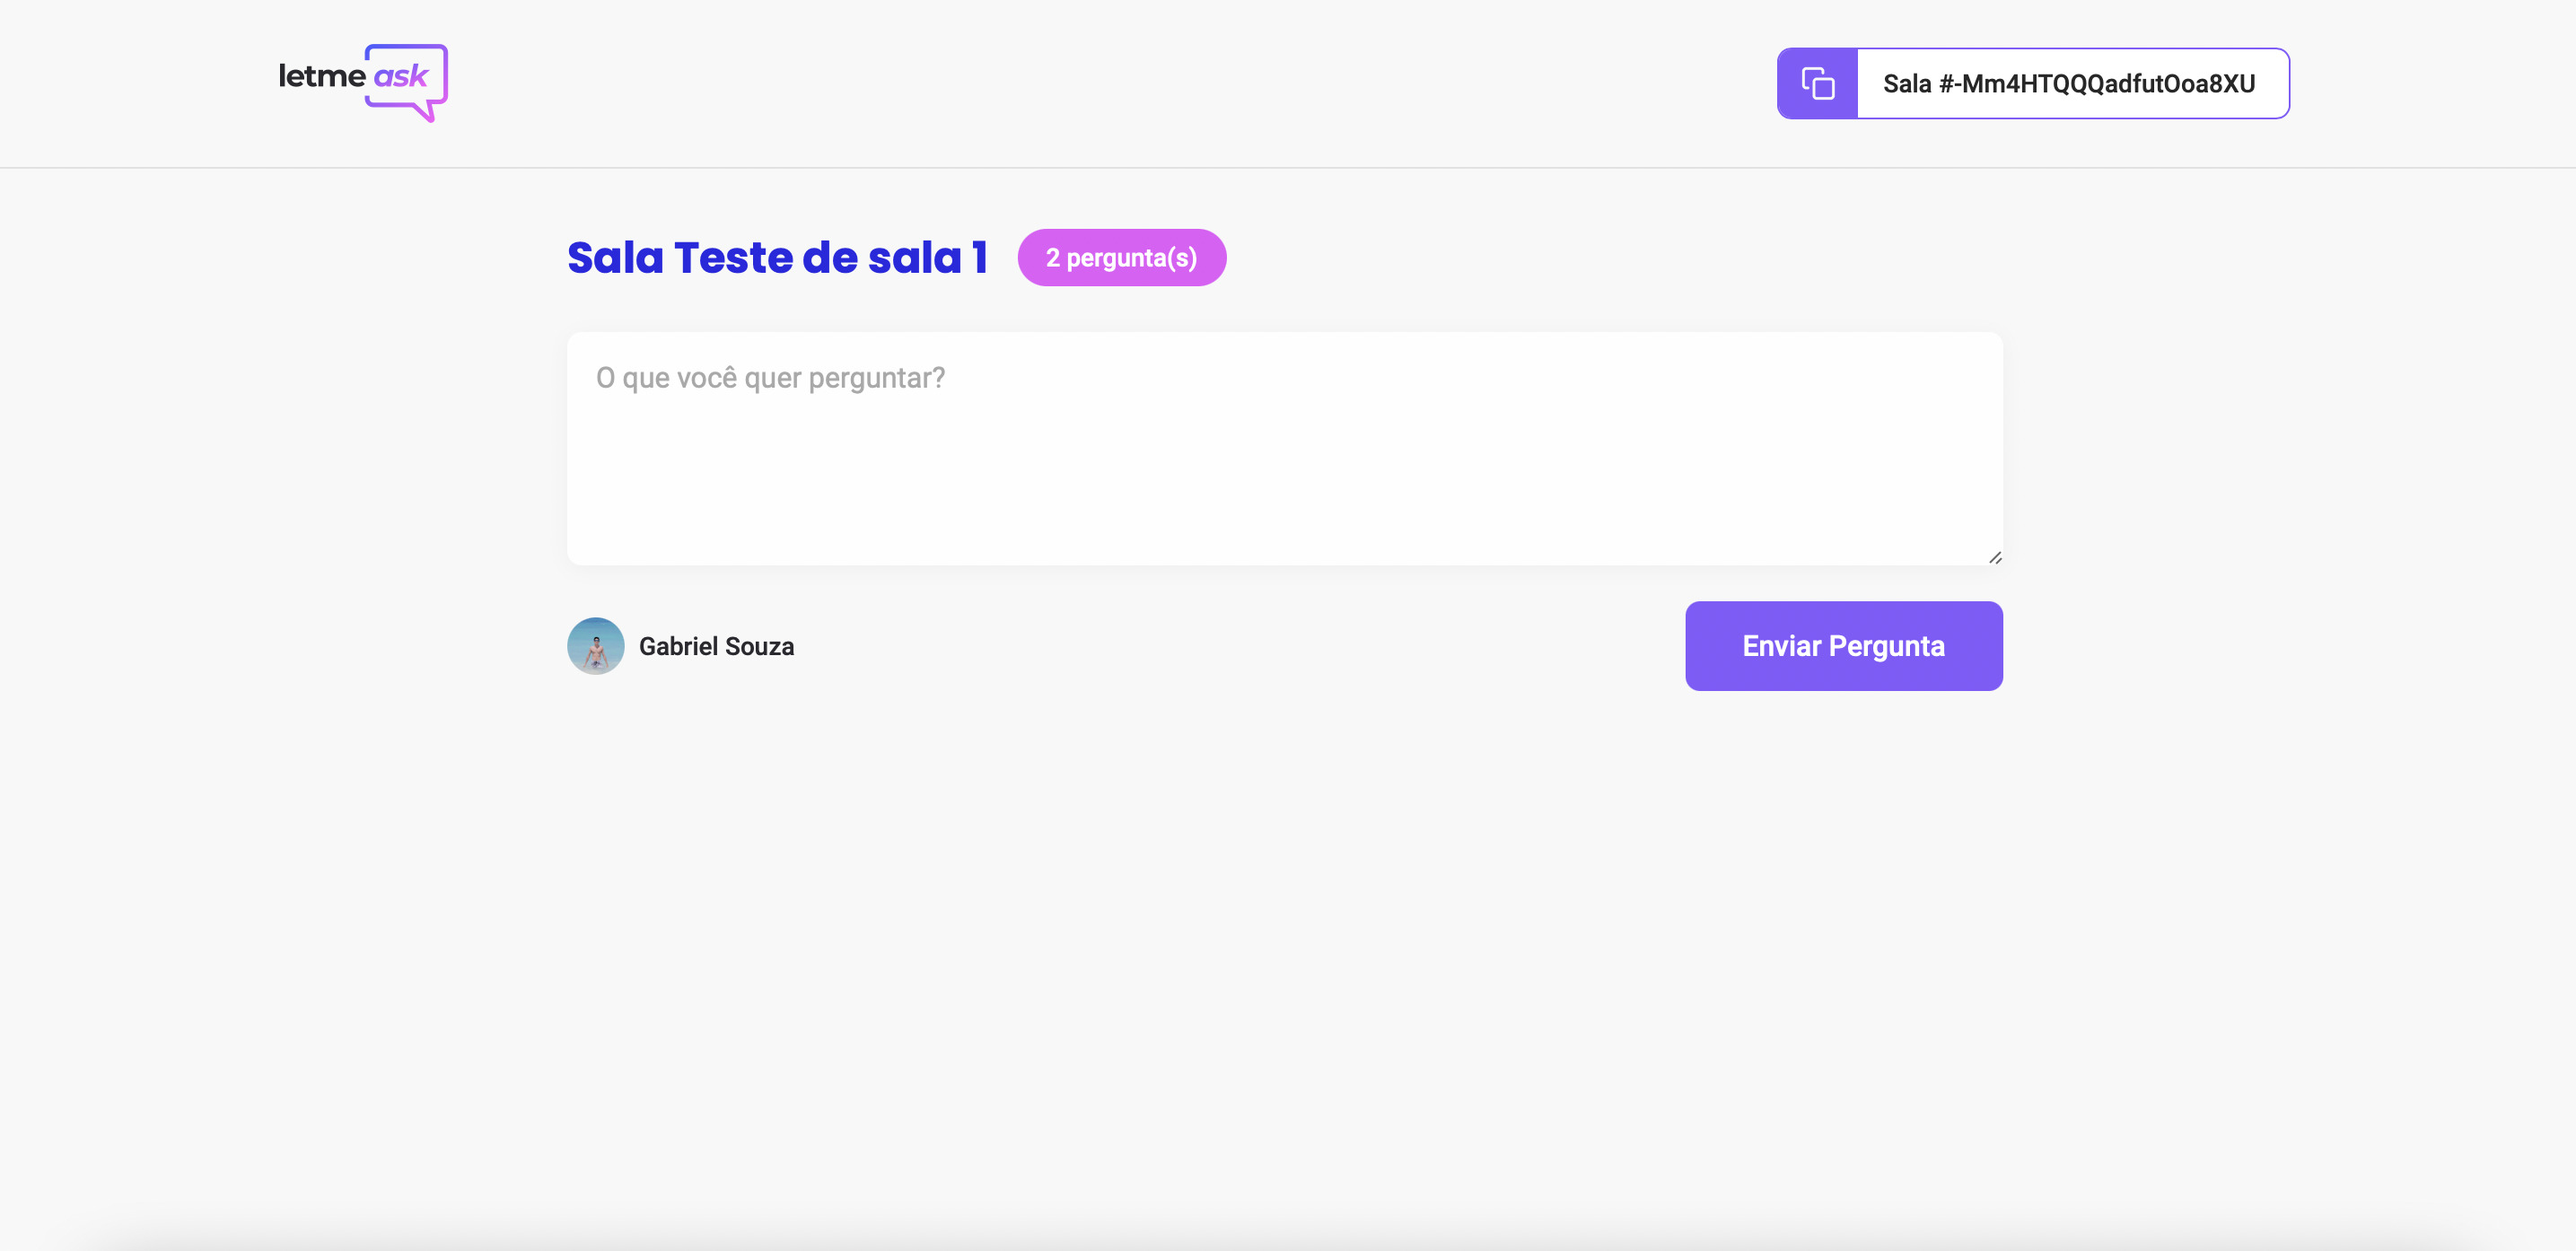
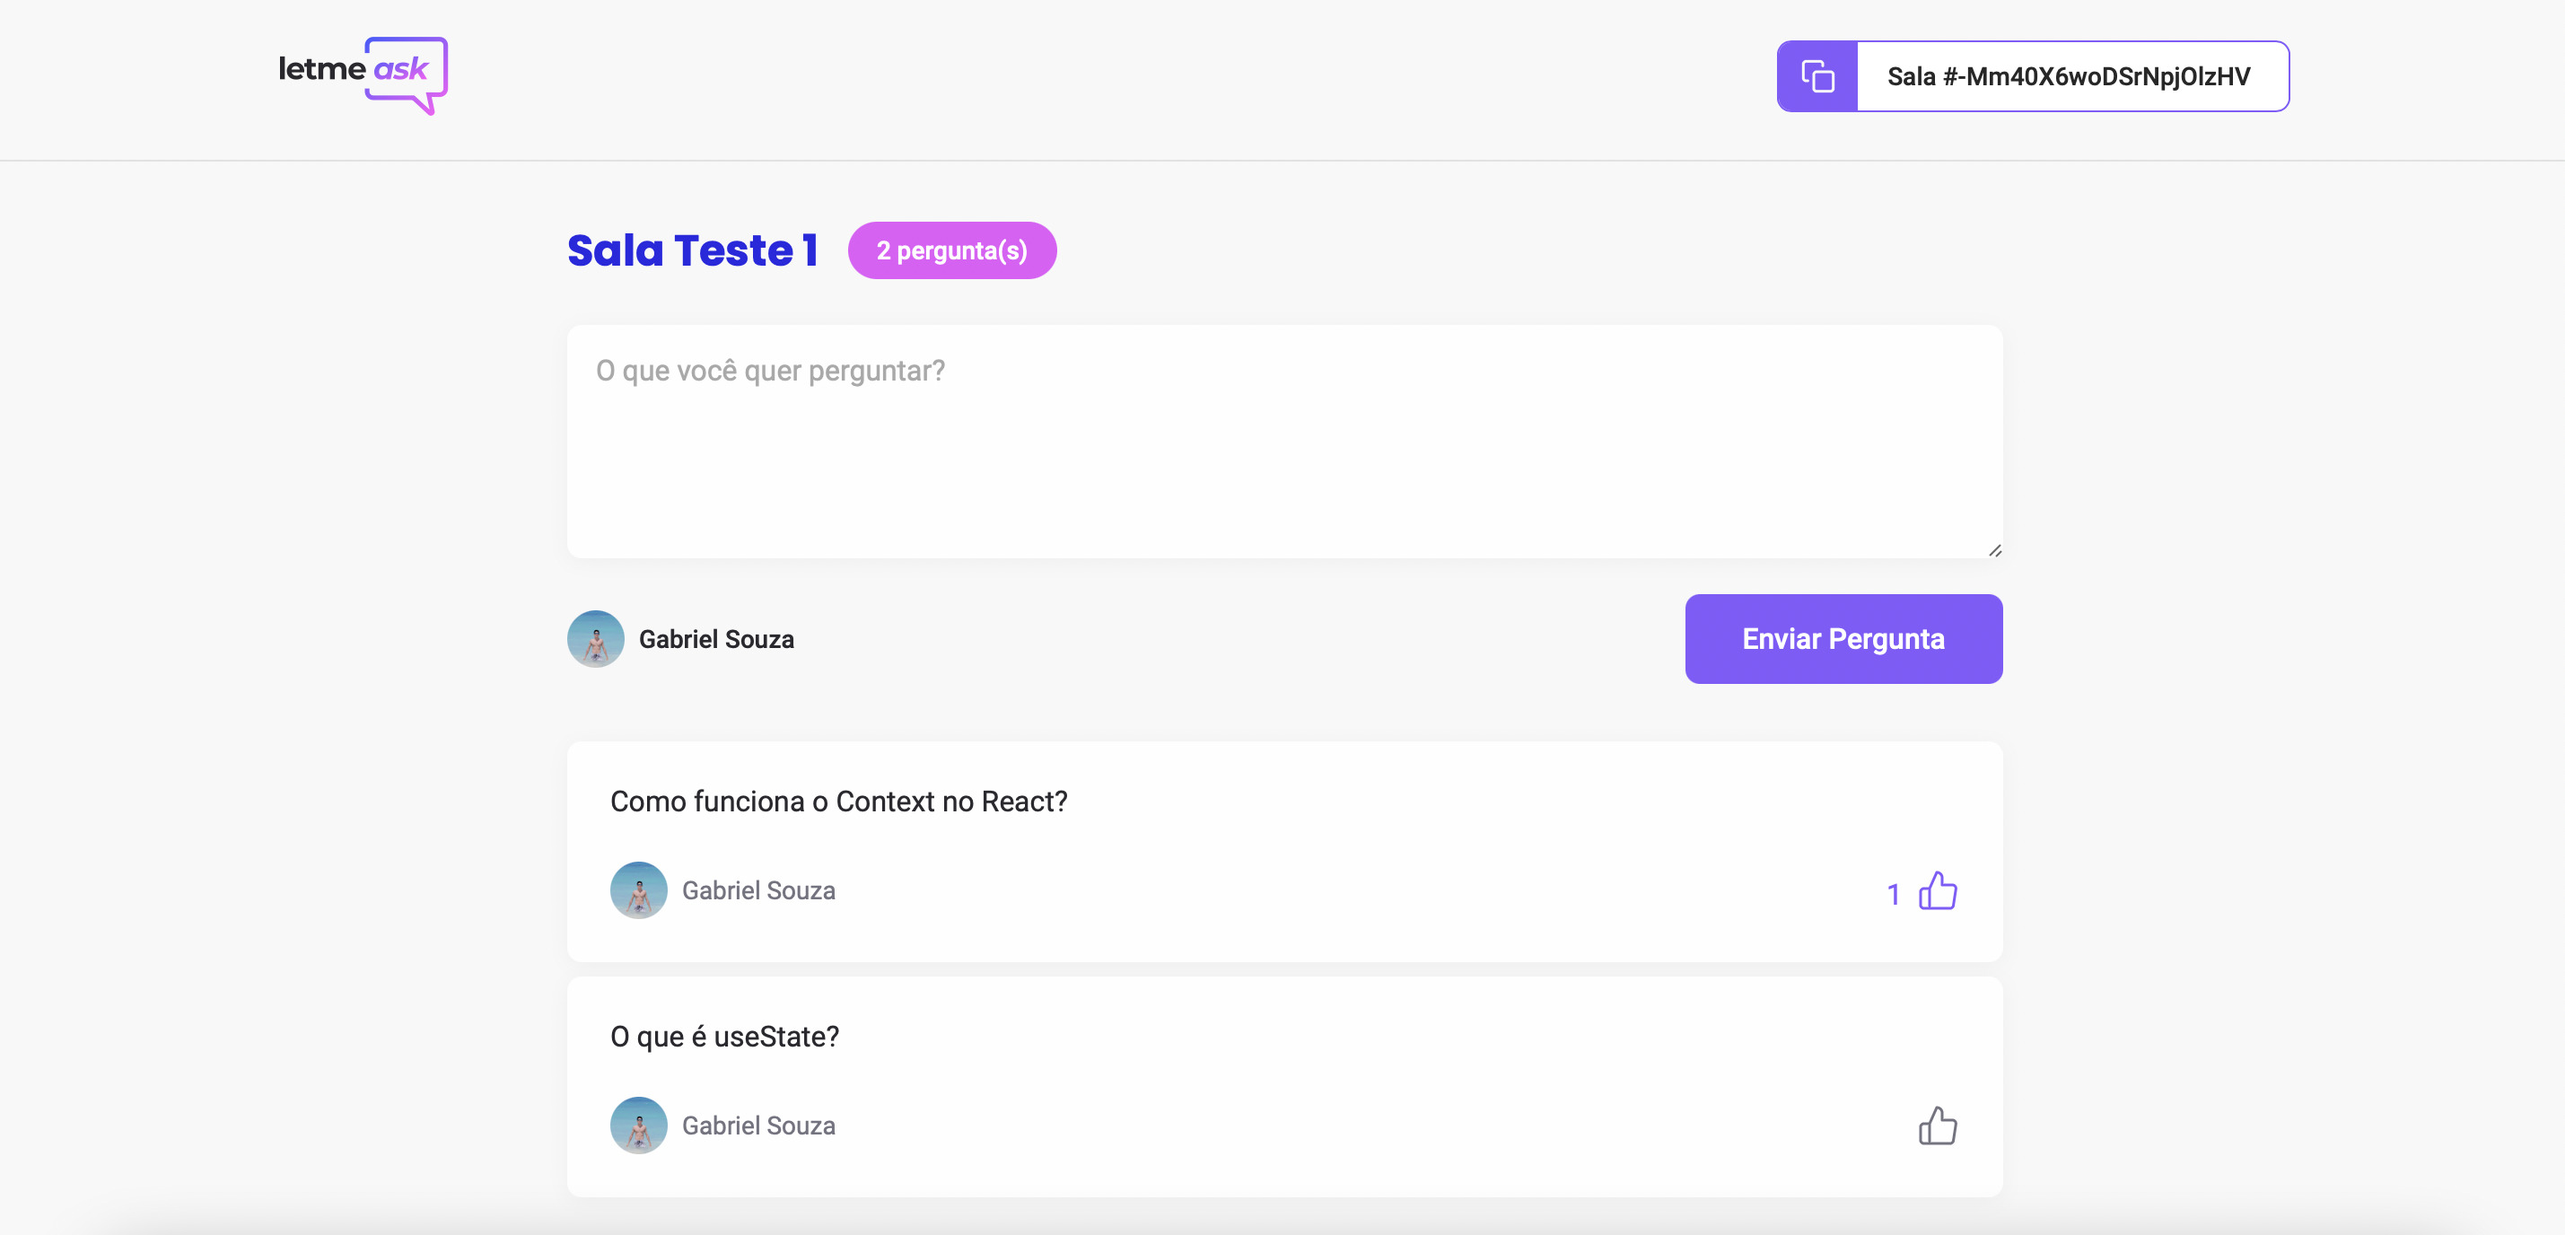
dia 4 completo

diff --git a/src/Pages/AdminRoom.tsx b/src/Pages/AdminRoom.tsx
@@ -1,49 +1,38 @@
-import { FormEvent, useState } from "react";
-import { useParams } from "react-router-dom";
+import { useState } from "react";
+import { useHistory, useParams } from "react-router-dom";
 import logoImg from "../Assets/images/logo.svg";
+import deleImg from "../Assets/images/delete.svg";
 import Button from "../Components/Button";
 import Question from "../Components/Question";
 import RoomCode from "../Components/RoomCode";
 import { useAuth } from "../Hooks/useAuth";
 import { useRoom } from "../Hooks/useRoom";
-import { database } from "../Services/firebase";
 import "../Styles/room.scss";
+import { database } from "../Services/firebase";
 
 type RoomParams = {
   id: string;
 };
 
 const AdminRoom = () => {
-  const { user } = useAuth();
+  // const { user } = useAuth();
+  const history = useHistory();
   const params = useParams<RoomParams>();
   const code = params.id;
-  const [newQuestion, setNewQuestion] = useState("");
   const { questions, title } = useRoom(code);
 
-  async function handleSendQuestion(event: FormEvent) {
-    event.preventDefault();
+  async function handleEndRoom() {
+    await database.ref(`rooms/${code}`).update({
+      closedAt: new Date(),
+    });
 
-    if (newQuestion.trim() === "") {
-      return;
+    history.push("/");
+  }
+
+  async function handleDeleteQuestion(questionId: string) {
+    if (window.confirm("Tem certeza que deseja excluir essa pergunta?")) {
+      await database.ref(`rooms/${code}/questions/${questionId}`).remove();
     }
-
-    if (!user) {
-      throw new Error("You must be logged in.");
-    }
-
-    const question = {
-      content: newQuestion,
-      author: {
-        name: user.name,
-        avatar: user.avatar,
-      },
-      isHighlighted: false,
-      isAnswered: false,
-    };
-
-    await database.ref(`rooms/${code}/questions`).push(question);
-
-    setNewQuestion("");
   }
 
   return (
@@ -53,7 +42,9 @@ const AdminRoom = () => {
           <img src={logoImg} alt="Letmeask" />
           <div>
             <RoomCode code={code} />
-            <Button isOutlined>Encerrar Sala</Button>
+            <Button isOutlined onClick={handleEndRoom}>
+              Encerrar Sala
+            </Button>
           </div>
         </div>
       </header>
@@ -69,7 +60,14 @@ const AdminRoom = () => {
                 key={question.id}
                 content={question.content}
                 author={question.author}
-              />
+              >
+                <button
+                  type="button"
+                  onClick={() => handleDeleteQuestion(question.id)}
+                >
+                  <img src={deleImg} alt="Remover pergunta" />
+                </button>
+              </Question>
             );
           })}
         </div>

diff --git a/src/Pages/Room.tsx b/src/Pages/Room.tsx
@@ -46,6 +46,16 @@ const Room = () => {
     setNewQuestion("");
   }
 
+  async function handleLikeQuestion(questionId: string, hasLiked: boolean) {
+    if (!hasLiked) {
+      await database.ref(`rooms/${code}/questions/${questionId}/likes`).push({
+        authorId: user?.id,
+      });
+    } else {
+      //remover like
+    }
+  }
+
   return (
     <div id="page-room">
       <header>
@@ -88,7 +98,33 @@ const Room = () => {
                 key={question.id}
                 content={question.content}
                 author={question.author}
-              />
+              >
+                <button
+                  className={`like-button ${question.hasLiked ? `liked` : ``}`}
+                  type="button"
+                  aria-label="Marcar como gostei."
+                  onClick={() =>
+                    handleLikeQuestion(question.id, question.hasLiked)
+                  }
+                >
+                  {question.likeCount > 0 && <span>{question.likeCount}</span>}
+                  <svg
+                    width="24"
+                    height="24"
+                    viewBox="0 0 24 24"
+                    fill="none"
+                    xmlns="http://www.w3.org/2000/svg"
+                  >
+                    <path
+                      d="M7 22H4C3.46957 22 2.96086 21.7893 2.58579 21.4142C2.21071 21.0391 2 20.5304 2 20V13C2 12.4696 2.21071 11.9609 2.58579 11.5858C2.96086 11.2107 3.46957 11 4 11H7M14 9V5C14 4.20435 13.6839 3.44129 13.1213 2.87868C12.5587 2.31607 11.7956 2 11 2L7 11V22H18.28C18.7623 22.0055 19.2304 21.8364 19.5979 21.524C19.9654 21.2116 20.2077 20.7769 20.28 20.3L21.66 11.3C21.7035 11.0134 21.6842 10.7207 21.6033 10.4423C21.5225 10.1638 21.3821 9.90629 21.1919 9.68751C21.0016 9.46873 20.7661 9.29393 20.5016 9.17522C20.2371 9.0565 19.9499 8.99672 19.66 9H14Z"
+                      stroke="#737380"
+                      strokeWidth="1.5"
+                      strokeLinecap="round"
+                      strokeLinejoin="round"
+                    />
+                  </svg>
+                </button>
+              </Question>
             );
           })}
         </div>

diff --git a/src/Hooks/useRoom.ts b/src/Hooks/useRoom.ts
@@ -1,5 +1,6 @@
 import { useEffect, useState } from "react";
 import { database } from "../Services/firebase";
+import { useAuth } from "./useAuth";
 
 type FirebaseQuestions = Record<
   string,
@@ -11,6 +12,12 @@ type FirebaseQuestions = Record<
     content: string;
     isAnswered: boolean;
     isHighlighted: boolean;
+    likes: Record<
+      string,
+      {
+        authorId: string;
+      }
+    >;
   }
 >;
 
@@ -23,9 +30,12 @@ type QuestionType = {
   content: string;
   isAnswered: boolean;
   isHighlighted: boolean;
+  likeCount: number;
+  hasLiked: boolean;
 };
 
 export function useRoom(code: string) {
+  const { user } = useAuth();
   const [questions, setQuestions] = useState<QuestionType[]>([]);
   const [title, setTitle] = useState("");
 
@@ -45,6 +55,10 @@ export function useRoom(code: string) {
             author: value.author,
             isHighlighted: value.isHighlighted,
             isAnswered: value.isAnswered,
+            likeCount: Object.values(value.likes ?? {}).length,
+            hasLiked: Object.values(value.likes ?? {}).some(
+              (like) => like.authorId === user?.id
+            ),
           };
         }
       );
@@ -52,7 +66,9 @@ export function useRoom(code: string) {
       setTitle(databaseRoom.title);
       setQuestions(parsedQuestions);
     });
-  }, [code]);
+
+    return () => roomRef.off("value");
+  }, [code, user?.id]);
 
   return { questions, title };
 }

diff --git a/src/Components/Question.tsx b/src/Components/Question.tsx
@@ -1,3 +1,4 @@
+import { ReactNode } from "react";
 import "../Styles/question.scss";
 
 type QuestionProps = {
@@ -6,9 +7,10 @@ type QuestionProps = {
     name: string;
     avatar: string;
   };
+  children?: ReactNode;
 };
 
-const Question = ({ content, author }: QuestionProps) => {
+const Question = ({ content, author, children }: QuestionProps) => {
   return (
     <div className="question">
       <p>{content}</p>
@@ -17,7 +19,7 @@ const Question = ({ content, author }: QuestionProps) => {
           <img src={author.avatar} alt={author.name} />
           <span>{author.name}</span>
         </div>
-        <div></div>
+        <div>{children}</div>
       </footer>
     </div>
   );

diff --git a/src/Styles/question.scss b/src/Styles/question.scss
@@ -35,5 +35,31 @@
         font-size: 14px;
       }
     }
+
+    button {
+      border: 0;
+      background: transparent;
+      cursor: pointer;
+      transition: filter 0.3s;
+
+      &.like-button {
+        display: flex;
+        align-items: flex-end;
+        color: #737380;
+        gap: 8px;
+
+        &.liked {
+          color: #835afd;
+
+          svg path {
+            stroke: #835afd;
+          }
+        }
+      }
+
+      &:hover {
+        filter: brightness(0.7);
+      }
+    }
   }
 }

diff --git a/src/Pages/Home.tsx b/src/Pages/Home.tsx
@@ -38,6 +38,11 @@ const Home = () => {
       return;
     }
 
+    if (roomRef.val().closedAt) {
+      alert("Room already closed");
+      return;
+    }
+
     history.push(`/rooms/${roomCode}`);
   }
 

diff --git a/README.md b/README.md
@@ -6,4 +6,5 @@
 <img src="Screenshots/1.jpg" width=700px/> 
 <img src="Screenshots/2.jpg" width=700px/>
 <img src="Screenshots/3.jpeg" width=700px/>
+<img src="Screenshots/4.jpeg" width=700px/>
 </div>
